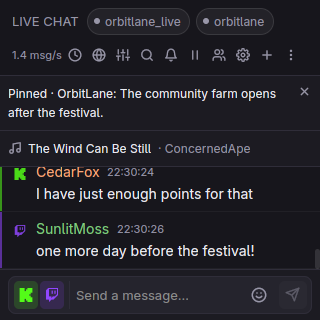
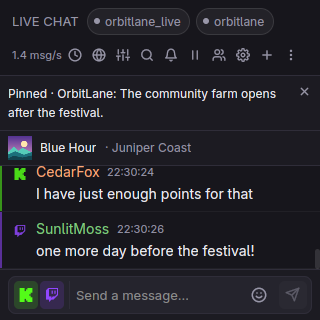
feat(desktop): show Twir track artwork

Changed region(s): [[0.0, 0.4062, 0.7812, 0.5]]

diff --git a/packages/desktop/src/gpuix/components/ChatTwirNowPlaying.tsx b/packages/desktop/src/gpuix/components/ChatTwirNowPlaying.tsx
@@ -8,9 +8,11 @@ import { useBackend } from '../backend/context'
 import { useT } from '../i18n'
 import { useTheme } from '../theme-context'
 import { Icon } from './ui/Icon'
+import { RemoteImage } from './ui/RemoteImage'
 import { Text } from './ui/Text'
 
 const REFRESH_MS = 30_000
+const ARTWORK_SIZE = 24
 const trackText = {
   flexShrink: 1,
   minWidth: 0,
@@ -54,7 +56,8 @@ export const ChatTwirNowPlaying = memo(function ChatTwirNowPlaying({
         if (
           previous?.targets === targets &&
           previous.track.title === track.title &&
-          previous.track.artist === track.artist
+          previous.track.artist === track.artist &&
+          previous.track.imageUrl === track.imageUrl
         )
           return previous
         return { targets, track }
@@ -72,7 +75,7 @@ export const ChatTwirNowPlaying = memo(function ChatTwirNowPlaying({
   }, [api, targets])
 
   if (playing?.targets !== targets) return null
-  const { title, artist } = playing.track
+  const { title, artist, imageUrl } = playing.track
   const label = t('chat.banner.nowPlaying', { track: artist ? `${title} · ${artist}` : title })
 
   return (
@@ -86,8 +89,11 @@ export const ChatTwirNowPlaying = memo(function ChatTwirNowPlaying({
             display: 'flex',
             flexDirection: 'row',
             alignItems: 'center',
-            gap: 6,
-            padding: 8,
+            gap: 8,
+            paddingTop: 5,
+            paddingBottom: 5,
+            paddingLeft: 8,
+            paddingRight: 8,
             width: '100%',
             minWidth: 0,
             overflow: 'hidden',
@@ -96,7 +102,37 @@ export const ChatTwirNowPlaying = memo(function ChatTwirNowPlaying({
             borderColor: theme.border,
           }}
         >
-          <Icon name="music" size={14} color={theme.text2} />
+          <div
+            testId="chat-twir-now-playing-artwork"
+            style={{
+              position: 'relative',
+              display: 'flex',
+              alignItems: 'center',
+              justifyContent: 'center',
+              width: ARTWORK_SIZE,
+              height: ARTWORK_SIZE,
+              flexShrink: 0,
+              borderRadius: 4,
+              backgroundColor: theme.surface2,
+              overflow: 'hidden',
+            }}
+          >
+            <Icon name="music" size={14} color={theme.text2} />
+            {imageUrl ? (
+              <RemoteImage
+                url={imageUrl}
+                thumbnailSize={ARTWORK_SIZE * 2}
+                objectFit="cover"
+                style={{
+                  position: 'absolute',
+                  top: 0,
+                  left: 0,
+                  width: ARTWORK_SIZE,
+                  height: ARTWORK_SIZE,
+                }}
+              />
+            ) : null}
+          </div>
           <Text style={{ ...trackText, color: theme.text, fontWeight: 600 }}>{title}</Text>
           {artist ? (
             <Text style={{ ...trackText, color: theme.text2, maxWidth: '44%' }}>

diff --git a/packages/desktop/tests/twir-commands.test.ts b/packages/desktop/tests/twir-commands.test.ts
@@ -241,6 +241,40 @@ test('does not move to lower priority on a transient channel lookup error', asyn
   expect(urls).toEqual([`${API}/v1/channels/by-platform/twitch/34`])
 })
 
+test.each([
+  ['https://i.scdn.co/image/ab67616d0000b273a3cf', 'https://i.scdn.co/image/ab67616d0000b273a3cf'],
+  [
+    'https://lastfm.freetls.fastly.net/i/u/300x300/abc.png',
+    'https://lastfm.freetls.fastly.net/i/u/300x300/abc.png',
+  ],
+  [null, undefined],
+  [123, undefined],
+  ['not a URL', undefined],
+  ['http://i.scdn.co/image/abc', undefined],
+  ['https://user:secret@i.scdn.co/image/abc', undefined],
+  ['https://i.scdn.co:8443/image/abc', undefined],
+  ['https://i.scdn.co.evil.example/image/abc', undefined],
+  ['https://127.0.0.1/image/abc', undefined],
+  ['https://i.scdn.co/other/abc', undefined],
+])('accepts only supported public artwork URLs (%s)', async (imageUrl, expected) => {
+  const getTrack = createTwirNowPlayingClient({
+    fetcher: async (url) =>
+      url.endsWith('/twitch/34')
+        ? Response.json({ channel_id: UUID })
+        : Response.json({
+            data: {
+              title: 'Evening Drive',
+              artist: 'Night Shift',
+              imageUrl,
+              canvasUrl: 'https://i.scdn.co/image/abc',
+            },
+          }),
+  })
+  const targets = resolveTwirTargets({ accounts: [account('twitch', '34')] })
+  const track = await getTrack(targets)
+  expect(track).toEqual({ title: 'Evening Drive', artist: 'Night Shift', imageUrl: expected })
+})
+
 test('refreshes current tracks and backs off after rate limiting without retaining stale data', async () => {
   let now = 0
   let trackRequests = 0

diff --git a/packages/desktop/src/services/twir-now-playing.ts b/packages/desktop/src/services/twir-now-playing.ts
@@ -16,11 +16,28 @@ const log = logger('twir-now-playing')
 const TRACK_TTL_MS = 15_000
 const RATE_LIMIT_RETRY_MS = 60_000
 
+function parseArtworkUrl(value: unknown): string | undefined {
+  if (typeof value !== 'string' || value.length > 2_048) return undefined
+  const url = URL.parse(value)
+  if (!url || url.protocol !== 'https:' || url.username || url.password || url.port)
+    return undefined
+  if (
+    (url.hostname === 'i.scdn.co' && url.pathname.startsWith('/image/')) ||
+    (url.hostname === 'lastfm.freetls.fastly.net' && url.pathname.startsWith('/i/u/'))
+  )
+    return url.href
+  return undefined
+}
+
 const trackTextSchema = z
   .string()
   .max(512)
   .transform((value) => sanitizeDisplayText(value).trim())
-const trackSchema = z.object({ title: trackTextSchema, artist: trackTextSchema })
+const trackSchema = z.object({
+  title: trackTextSchema,
+  artist: trackTextSchema,
+  imageUrl: z.unknown().transform(parseArtworkUrl).optional(),
+})
 const nowPlayingSchema = z.object({ data: trackSchema.nullable() })
 
 export type TwirNowPlaying = z.infer<typeof trackSchema>

diff --git a/docs/benchmarks/2026-11-18-twir-integration/report.md b/docs/benchmarks/2026-11-18-twir-integration/report.md
@@ -5,6 +5,10 @@ Isolated Linux GUI checks covered saving the Twir switches independently, comman
 reload, and changing the current track during live chat. The screenshots use simulated platform and
 Twir data.
 
+The artwork follow-up reuses these measurements because the now-playing component is unmounted
+with the switch off. Focused native checks verified the artwork at 720 and 320 px, replacement on
+refresh, and the note placeholder when artwork is absent or cannot be loaded.
+
 ## Production target
 
 Three runs per revision used 50 channels, four panes, 200 retained messages per channel,
